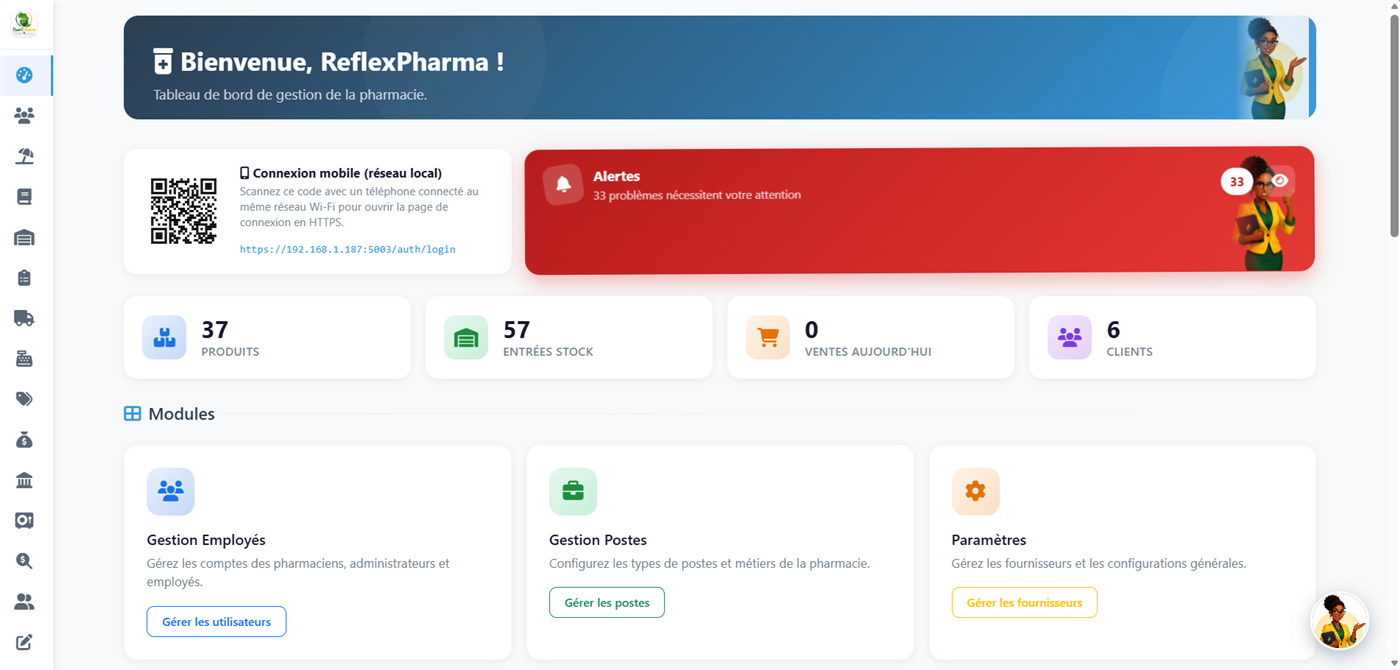
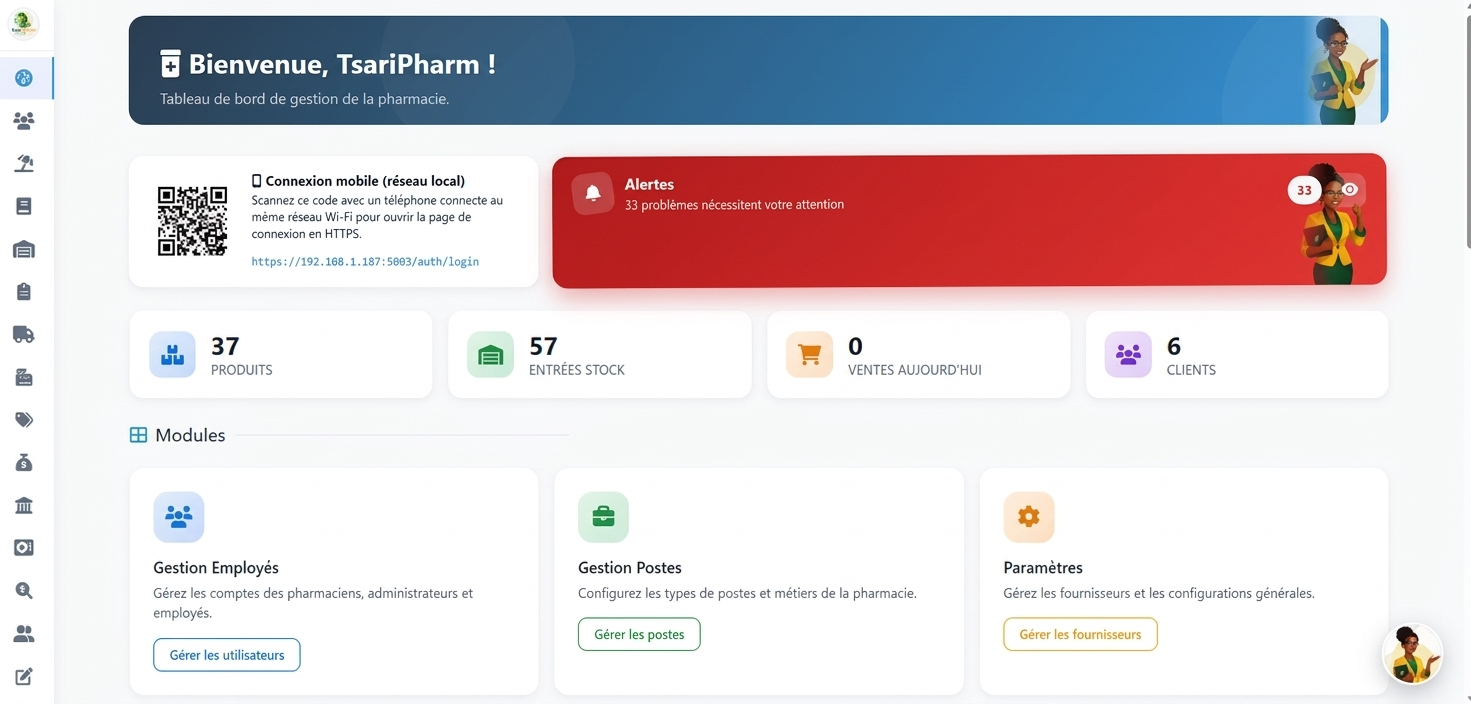
Update dashboard screenshots, contact details, and free guided demo via WhatsApp
Claude-Session: https://claude.ai/code/session_01EWAEDL6WijkFeGnhWrV9kA

diff --git a/demo.html b/demo.html
@@ -5,7 +5,7 @@
     <meta name="viewport" content="width=device-width, initial-scale=1.0">
     <title>Réserver une démo | TsariPharm</title>
     <link rel="icon" href="assets/tsaripharm-icon.jpg" type="image/jpeg">
-    <meta name="description" content="Découvrez TsariPharm en vidéo gratuitement, ou réservez une session accompagnée de 1h30 avec un expert pour parcourir complètement le logiciel.">
+    <meta name="description" content="Réservez gratuitement une session accompagnée de 1h30 avec un expert pour parcourir complètement TsariPharm.">
     <link rel="preconnect" href="https://fonts.googleapis.com">
     <link rel="preconnect" href="https://fonts.gstatic.com" crossorigin>
     <link href="https://fonts.googleapis.com/css2?family=DM+Sans:wght@400;500;600;700&family=Urbanist:wght@400;500;600;700;800;900&display=swap" rel="stylesheet">
@@ -31,38 +31,22 @@
             <span>Réserver une démo</span>
         </nav>
         <h1>Réservez votre démo</h1>
-        <p>Découvrez TsariPharm en vidéo, ou en direct avec un expert qui parcourt le logiciel avec vous.</p>
+        <p>Découvrez TsariPharm en direct avec un expert qui parcourt le logiciel avec vous.</p>
     </header>
 
     <main>
         <section>
             <div class="section-head">
-                <span class="pill">Deux façons de découvrir TsariPharm</span>
-                <h2>Choisissez la démo <em>qui vous convient</em>.</h2>
-                <p>Une vidéo gratuite pour un premier aperçu, ou une session personnalisée avec un expert pour aller plus loin.</p>
+                <span class="pill">Démo accompagnée</span>
+                <h2>Découvrez TsariPharm <em>avec un expert</em>.</h2>
+                <p>Une session personnalisée avec un expert, adaptée à votre pharmacie.</p>
             </div>
 
-            <div class="pricing-grid pricing-grid--2">
-                <div class="price-card">
-                    <span class="price-tier">Démo gratuite</span>
-                    <h3>Vidéo de présentation</h3>
-                    <p class="price-amount">Gratuit</p>
-                    <p class="price-desc">Une vidéo qui présente TsariPharm dans son ensemble : ventes, stock, caisse, finances, RH et assistant IA. À regarder à votre rythme, sans rendez-vous.</p>
-                    <ul class="price-features">
-                        <li>Présentation complète du logiciel</li>
-                        <li>Formules Local et Hybride expliquées</li>
-                        <li>Aucune inscription nécessaire</li>
-                        <li>Disponible à tout moment</li>
-                    </ul>
-                    <!-- TODO: remplacer # par le lien YouTube réel -->
-                    <a href="#" target="_blank" rel="noopener" class="btn btn-outline-dark"><span>Voir la vidéo</span></a>
-                </div>
-
+            <div class="pricing-grid pricing-grid--2" style="grid-template-columns:minmax(0,460px); justify-content:center;">
                 <div class="price-card featured">
-                    <span class="price-badge">Recommandée</span>
                     <span class="price-tier">Démo accompagnée</span>
                     <h3>Session avec un expert</h3>
-                    <p class="price-amount">15&nbsp;$</p>
+                    <p class="price-amount"><s style="opacity:.55; font-size:0.6em; font-weight:500; margin-right:10px;">$15</s>Gratuit</p>
                     <p class="price-desc">Un expert TsariPharm vous accompagne en direct pendant 1h30 pour parcourir complètement le programme et répondre à toutes vos questions, adaptées à votre pharmacie.</p>
                     <ul class="price-features">
                         <li>Session live de 1h30 avec un expert</li>
@@ -70,14 +54,17 @@
                         <li>Questions-réponses personnalisées</li>
                         <li>Conseils adaptés à votre officine</li>
                     </ul>
-                    <a href="https://book.stripe.com/fZu4gyb907Mqeiba3xdMI02" class="btn btn-dark"><span>Réserver ma session — 15&nbsp;$</span></a>
-                    <p style="margin-top:14px; font-size:0.82rem; color:rgba(255,255,255,0.85);">Paiement sécurisé par carte bancaire, via Stripe.</p>
+                    <!-- Lien de paiement Stripe (désactivé, démo gratuite pour le moment) :
+                    <a href="https://book.stripe.com/fZu4gyb907Mqeiba3xdMI02" class="btn btn-dark"><span>Réserver ma session — $15</span></a>
+                    -->
+                    <a href="https://wa.me/447575894429?text=Bonjour%2C%20je%20souhaite%20r%C3%A9server%20une%20d%C3%A9mo%20accompagn%C3%A9e%20de%20TsariPharm." target="_blank" rel="noopener" class="btn btn-dark"><span>Réserver ma session gratuite</span></a>
+                    <p style="margin-top:14px; font-size:0.82rem; color:rgba(255,255,255,0.85);">Réservation par WhatsApp, sans paiement.</p>
                 </div>
             </div>
 
             <div style="margin-top: 70px; background: var(--green-soft); padding: 40px; border-radius: var(--radius-lg); text-align: center; border: 1.5px dashed var(--green-3);">
-                <span class="pill">Paiement</span>
-                <p style="margin-top:16px; max-width: 620px; margin-left: auto; margin-right: auto;">La démo accompagnée (15&nbsp;$) se règle uniquement par carte bancaire, via un lien de paiement Stripe sécurisé. Vous recevrez votre rendez-vous par email dès confirmation du paiement.</p>
+                <span class="pill">Réservation</span>
+                <p style="margin-top:16px; max-width: 620px; margin-left: auto; margin-right: auto;">La démo accompagnée est offerte (au lieu de $15). Écrivez-nous sur WhatsApp pour convenir ensemble d'un créneau.</p>
             </div>
         </section>
     </main>
@@ -116,8 +103,9 @@
             <div>
                 <h4>Nous joindre</h4>
                 <div class="footer-contact">
-                    <div><span class="ico">☎</span><a href="https://wa.me/447575894429" target="_blank" rel="noopener">+44 7575 894429</a></div>
-                    <div><span class="ico">✉</span><a href="mailto:contact@tsaripharm.com">contact@tsaripharm.com</a></div>
+                    <div><span class="ico">☎</span><a href="tel:+12817456435">+1 281 745 6435</a> · <a href="https://wa.me/12817456435?text=Bonjour%2C%20j%27ai%20besoin%20du%20logiciel%20TsariPharm%20pour%20ma%20pharmacie." target="_blank" rel="noopener">WhatsApp</a></div>
+                    <div><span class="ico">💬</span><a href="https://wa.me/447575894429?text=Bonjour%2C%20j%27ai%20besoin%20du%20logiciel%20TsariPharm%20pour%20ma%20pharmacie." target="_blank" rel="noopener">+44 7575 894429 (WhatsApp)</a></div>
+                    <div><span class="ico">✉</span><a href="mailto:tsaripharm@joelcomputech.com">tsaripharm@joelcomputech.com</a></div>
                     <div><span class="ico">⚿</span><span>Paiement 100% en ligne</span></div>
                 </div>
             </div>

diff --git a/contact.html b/contact.html
@@ -90,14 +90,21 @@
                         <span class="ico">✉</span>
                         <div>
                             <h4>Email</h4>
-                            <a href="mailto:contact@tsaripharm.com">contact@tsaripharm.com</a>
+                            <a href="mailto:tsaripharm@joelcomputech.com">tsaripharm@joelcomputech.com</a>
                         </div>
                     </div>
                     <div class="contact-row">
                         <span class="ico">☎</span>
                         <div>
                             <h4>Téléphone / WhatsApp</h4>
-                            <a href="https://wa.me/447575894429" target="_blank" rel="noopener">+44 7575 894429</a>
+                            <a href="tel:+12817456435">+1 281 745 6435</a> · <a href="https://wa.me/12817456435?text=Bonjour%2C%20j%27ai%20besoin%20du%20logiciel%20TsariPharm%20pour%20ma%20pharmacie." target="_blank" rel="noopener">WhatsApp</a>
+                        </div>
+                    </div>
+                    <div class="contact-row">
+                        <span class="ico">💬</span>
+                        <div>
+                            <h4>WhatsApp uniquement</h4>
+                            <a href="https://wa.me/447575894429?text=Bonjour%2C%20j%27ai%20besoin%20du%20logiciel%20TsariPharm%20pour%20ma%20pharmacie." target="_blank" rel="noopener">+44 7575 894429</a>
                         </div>
                     </div>
                     <div class="contact-row">
@@ -144,8 +151,9 @@
             <div>
                 <h4>Nous joindre</h4>
                 <div class="footer-contact">
-                    <div><span class="ico">☎</span><a href="https://wa.me/447575894429" target="_blank" rel="noopener">+44 7575 894429</a></div>
-                    <div><span class="ico">✉</span><a href="mailto:contact@tsaripharm.com">contact@tsaripharm.com</a></div>
+                    <div><span class="ico">☎</span><a href="tel:+12817456435">+1 281 745 6435</a> · <a href="https://wa.me/12817456435?text=Bonjour%2C%20j%27ai%20besoin%20du%20logiciel%20TsariPharm%20pour%20ma%20pharmacie." target="_blank" rel="noopener">WhatsApp</a></div>
+                    <div><span class="ico">💬</span><a href="https://wa.me/447575894429?text=Bonjour%2C%20j%27ai%20besoin%20du%20logiciel%20TsariPharm%20pour%20ma%20pharmacie." target="_blank" rel="noopener">+44 7575 894429 (WhatsApp)</a></div>
+                    <div><span class="ico">✉</span><a href="mailto:tsaripharm@joelcomputech.com">tsaripharm@joelcomputech.com</a></div>
                     <div><span class="ico">⚿</span><span>Paiement 100% en ligne</span></div>
                 </div>
             </div>
@@ -171,7 +179,7 @@
                 'Téléphone : ' + data.telephone + '\n' +
                 'Formule souhaitée : ' + data.formule + '\n\n' +
                 'Message :\n' + data.message;
-            var mailto = 'mailto:contact@tsaripharm.com?subject=' + encodeURIComponent(subject) + '&body=' + encodeURIComponent(body);
+            var mailto = 'mailto:tsaripharm@joelcomputech.com?subject=' + encodeURIComponent(subject) + '&body=' + encodeURIComponent(body);
             document.getElementById('contact-status').style.display = 'block';
             window.location.href = mailto;
         });

diff --git a/tarifs.html b/tarifs.html
@@ -80,6 +80,11 @@
                 </div>
             </div>
 
+            <div style="text-align:center; margin-top:32px;">
+                <p style="font-size:0.9rem; color:var(--muted); margin-bottom:20px;">Prix indiqués en FCFA. Hors zone FCFA, le montant équivalent est facturé dans votre devise locale.</p>
+                <a href="https://wa.me/12817456435?text=Bonjour%2C%20j%27ai%20besoin%20du%20logiciel%20TsariPharm%20pour%20ma%20pharmacie." target="_blank" rel="noopener" class="btn btn-orange"><span>Contacter sur WhatsApp</span></a>
+            </div>
+
             <div style="margin-top: 70px; background: var(--green-soft); padding: 50px 40px; border-radius: var(--radius-lg); text-align: center; border: 1.5px dashed var(--green-3);">
                 <span class="pill">Plusieurs officines ?</span>
                 <h2 style="margin: 16px 0 14px;">Un tarif <em style="font-style:normal; background: var(--grad-pharma-h); -webkit-background-clip: text; background-clip: text; -webkit-text-fill-color: transparent;">sur mesure</em> pour les réseaux.</h2>
@@ -261,8 +266,9 @@
             <div>
                 <h4>Nous joindre</h4>
                 <div class="footer-contact">
-                    <div><span class="ico">☎</span><a href="https://wa.me/447575894429" target="_blank" rel="noopener">+44 7575 894429</a></div>
-                    <div><span class="ico">✉</span><a href="mailto:contact@tsaripharm.com">contact@tsaripharm.com</a></div>
+                    <div><span class="ico">☎</span><a href="tel:+12817456435">+1 281 745 6435</a> · <a href="https://wa.me/12817456435?text=Bonjour%2C%20j%27ai%20besoin%20du%20logiciel%20TsariPharm%20pour%20ma%20pharmacie." target="_blank" rel="noopener">WhatsApp</a></div>
+                    <div><span class="ico">💬</span><a href="https://wa.me/447575894429?text=Bonjour%2C%20j%27ai%20besoin%20du%20logiciel%20TsariPharm%20pour%20ma%20pharmacie." target="_blank" rel="noopener">+44 7575 894429 (WhatsApp)</a></div>
+                    <div><span class="ico">✉</span><a href="mailto:tsaripharm@joelcomputech.com">tsaripharm@joelcomputech.com</a></div>
                     <div><span class="ico">⚿</span><span>Paiement 100% en ligne</span></div>
                 </div>
             </div>

diff --git a/index.html b/index.html
@@ -328,6 +328,7 @@
                     <a href="tarifs.html" class="btn btn-dark"><span>Voir le détail</span></a>
                 </div>
             </div>
+            <p style="text-align:center; margin-top:28px; font-size:0.9rem; color:var(--muted);">Prix indiqués en FCFA. Hors zone FCFA, le montant équivalent est facturé dans votre devise locale.</p>
         </section>
 
         <!-- STATS -->
@@ -390,8 +391,9 @@
             <div>
                 <h4>Nous joindre</h4>
                 <div class="footer-contact">
-                    <div><span class="ico">☎</span><a href="https://wa.me/447575894429" target="_blank" rel="noopener">+44 7575 894429</a></div>
-                    <div><span class="ico">✉</span><a href="mailto:contact@tsaripharm.com">contact@tsaripharm.com</a></div>
+                    <div><span class="ico">☎</span><a href="tel:+12817456435">+1 281 745 6435</a> · <a href="https://wa.me/12817456435?text=Bonjour%2C%20j%27ai%20besoin%20du%20logiciel%20TsariPharm%20pour%20ma%20pharmacie." target="_blank" rel="noopener">WhatsApp</a></div>
+                    <div><span class="ico">💬</span><a href="https://wa.me/447575894429?text=Bonjour%2C%20j%27ai%20besoin%20du%20logiciel%20TsariPharm%20pour%20ma%20pharmacie." target="_blank" rel="noopener">+44 7575 894429 (WhatsApp)</a></div>
+                    <div><span class="ico">✉</span><a href="mailto:tsaripharm@joelcomputech.com">tsaripharm@joelcomputech.com</a></div>
                     <div><span class="ico">⚿</span><span>Paiement 100% en ligne</span></div>
                 </div>
             </div>

diff --git a/a-propos.html b/a-propos.html
@@ -202,8 +202,9 @@
             <div>
                 <h4>Nous joindre</h4>
                 <div class="footer-contact">
-                    <div><span class="ico">☎</span><a href="https://wa.me/447575894429" target="_blank" rel="noopener">+44 7575 894429</a></div>
-                    <div><span class="ico">✉</span><a href="mailto:contact@tsaripharm.com">contact@tsaripharm.com</a></div>
+                    <div><span class="ico">☎</span><a href="tel:+12817456435">+1 281 745 6435</a> · <a href="https://wa.me/12817456435?text=Bonjour%2C%20j%27ai%20besoin%20du%20logiciel%20TsariPharm%20pour%20ma%20pharmacie." target="_blank" rel="noopener">WhatsApp</a></div>
+                    <div><span class="ico">💬</span><a href="https://wa.me/447575894429?text=Bonjour%2C%20j%27ai%20besoin%20du%20logiciel%20TsariPharm%20pour%20ma%20pharmacie." target="_blank" rel="noopener">+44 7575 894429 (WhatsApp)</a></div>
+                    <div><span class="ico">✉</span><a href="mailto:tsaripharm@joelcomputech.com">tsaripharm@joelcomputech.com</a></div>
                     <div><span class="ico">⚿</span><span>Paiement 100% en ligne</span></div>
                 </div>
             </div>

diff --git a/fonctionnalites.html b/fonctionnalites.html
@@ -332,8 +332,9 @@
             <div>
                 <h4>Nous joindre</h4>
                 <div class="footer-contact">
-                    <div><span class="ico">☎</span><a href="https://wa.me/447575894429" target="_blank" rel="noopener">+44 7575 894429</a></div>
-                    <div><span class="ico">✉</span><a href="mailto:contact@tsaripharm.com">contact@tsaripharm.com</a></div>
+                    <div><span class="ico">☎</span><a href="tel:+12817456435">+1 281 745 6435</a> · <a href="https://wa.me/12817456435?text=Bonjour%2C%20j%27ai%20besoin%20du%20logiciel%20TsariPharm%20pour%20ma%20pharmacie." target="_blank" rel="noopener">WhatsApp</a></div>
+                    <div><span class="ico">💬</span><a href="https://wa.me/447575894429?text=Bonjour%2C%20j%27ai%20besoin%20du%20logiciel%20TsariPharm%20pour%20ma%20pharmacie." target="_blank" rel="noopener">+44 7575 894429 (WhatsApp)</a></div>
+                    <div><span class="ico">✉</span><a href="mailto:tsaripharm@joelcomputech.com">tsaripharm@joelcomputech.com</a></div>
                     <div><span class="ico">⚿</span><span>Paiement 100% en ligne</span></div>
                 </div>
             </div>
